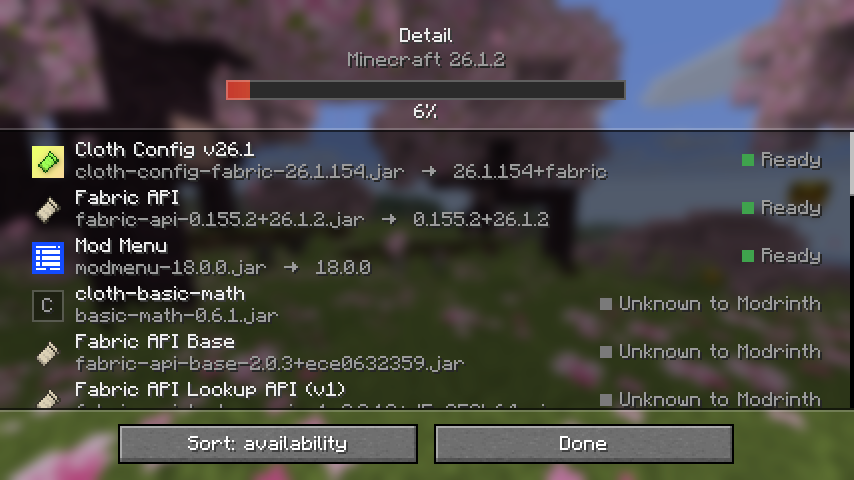
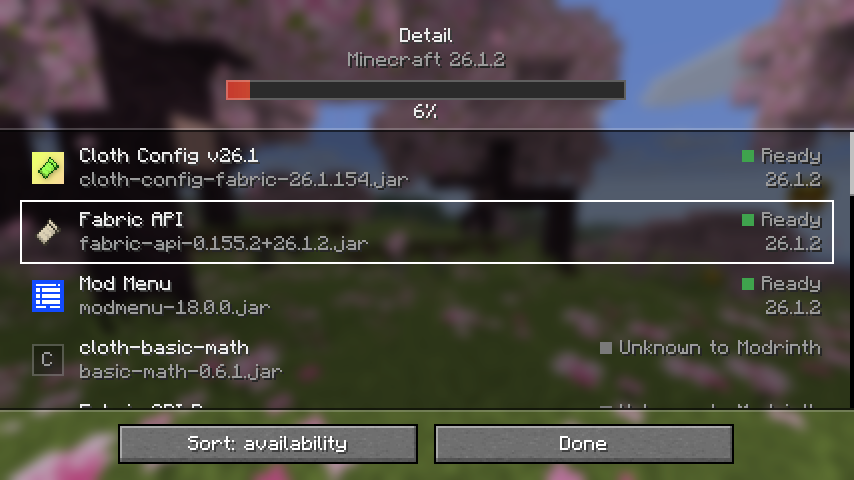
feat: show only the reached minecraft version in the mod list

Changed region(s): [[0.0304, 0.2812, 0.9742, 0.875], [0.7002, 0.8125, 0.9742, 0.875], [0.7002, 0.6875, 0.9742, 0.75]]

diff --git a/src/client/java/de/stefantasie/modsversionsupport/ui/screen/detail/ModSupportRow.java b/src/client/java/de/stefantasie/modsversionsupport/ui/screen/detail/ModSupportRow.java
@@ -1,6 +1,5 @@
 package de.stefantasie.modsversionsupport.ui.screen.detail;
 
-import de.stefantasie.modsversionsupport.ModsVersionSupport;
 import de.stefantasie.modsversionsupport.domain.report.ModSupportView;
 import de.stefantasie.modsversionsupport.ui.icon.ModIconTextures;
 import de.stefantasie.modsversionsupport.ui.theme.Palette;
@@ -9,14 +8,16 @@ import de.stefantasie.modsversionsupport.ui.widget.list.SupportBadge;
 import net.minecraft.client.gui.Font;
 import net.minecraft.client.gui.GuiGraphicsExtractor;
 import net.minecraft.client.gui.components.ObjectSelectionList;
-import java.util.Optional;
 import net.minecraft.network.chat.Component;
 
-/** One mod with its verdict for the target version. */
+/** One mod with its verdict for the target version and the newest Minecraft version it reaches. */
 public final class ModSupportRow extends ObjectSelectionList.Entry<ModSupportRow> {
 
-	private static final int ICON_LEFT = 4;
-	private static final int TEXT_LEFT = 26;
+	private static final int ICON_LEFT = 6;
+	private static final int TEXT_LEFT = 30;
+	private static final int FIRST_LINE = 6;
+	private static final int SECOND_LINE = 18;
+	private static final int EDGE = 6;
 
 	private final ModSupportView view;
 	private final Font font;
@@ -35,30 +36,29 @@ public final class ModSupportRow extends ObjectSelectionList.Entry<ModSupportRow
 
 	@Override
 	public void extractContent(GuiGraphicsExtractor extractor, int mouseX, int mouseY, boolean hovered, float partialTick) {
-		int left = getContentX();
-		int top = getContentY();
+		int left = getX();
+		int top = getY();
+		int right = getX() + getWidth();
 
 		if (hovered) {
-			extractor.outline(left, top, getContentWidth(), getContentHeight(), Palette.SELECTION);
+			extractor.outline(left, top + 1, getWidth(), getHeight() - 2, Palette.SELECTION);
 		}
-		ModIcon.draw(extractor, font, icons.iconFor(view.mod()), view.mod().displayName(), left + ICON_LEFT, top + 3);
-		extractor.text(font, Component.literal(view.mod().displayName()), left + TEXT_LEFT, top + 1, Palette.TEXT);
-		extractor.text(font, secondLine(), left + TEXT_LEFT, top + 12, Palette.TEXT_MUTED);
+
+		ModIcon.draw(extractor, font, icons.iconFor(view.mod()), view.mod().displayName(),
+				left + ICON_LEFT, top + (getHeight() - ModIcon.SIZE) / 2);
+		extractor.text(font, Component.literal(view.mod().displayName()), left + TEXT_LEFT, top + FIRST_LINE, Palette.TEXT);
+		extractor.text(font, Component.literal(view.mod().fileName().orElse("Modrinth")),
+				left + TEXT_LEFT, top + SECOND_LINE, Palette.TEXT_MUTED);
 
 		int badgeWidth = SupportBadge.widthOf(font, view.state());
-		SupportBadge.draw(extractor, font, view.state(), getContentRight() - badgeWidth - 4, top + 6);
+		SupportBadge.draw(extractor, font, view.state(), right - EDGE - badgeWidth, top + FIRST_LINE);
+		drawReachedVersion(extractor, right, top);
 	}
 
-	private Component secondLine() {
-		String source = view.mod().fileName().orElse("Modrinth");
-		Optional<String> found = view.support().versionNumber();
-		if (found.isPresent()) {
-			return Component.literal(source + "  →  " + found.get());
-		}
-		return view.support().newestSupportedGameVersion()
-				.map(version -> Component.literal(source + "  →  ")
-						.append(Component.translatable(ModsVersionSupport.translationKey("detail.up_to"), version)))
-				.map(Component.class::cast)
-				.orElseGet(() -> Component.literal(source));
+	private void drawReachedVersion(GuiGraphicsExtractor extractor, int right, int top) {
+		view.support().newestSupportedGameVersion().ifPresent(version -> {
+			Component label = Component.literal(version);
+			extractor.text(font, label, right - EDGE - font.width(label), top + SECOND_LINE, Palette.TEXT_MUTED);
+		});
 	}
 }

diff --git a/src/client/java/de/stefantasie/modsversionsupport/ui/screen/editor/ModRow.java b/src/client/java/de/stefantasie/modsversionsupport/ui/screen/editor/ModRow.java
@@ -58,17 +58,18 @@ public final class ModRow extends ContainerObjectSelectionList.Entry<ModRow> {
 		int top = getContentY();
 
 		checkbox.setX(left + 2);
-		checkbox.setY(top + 2);
+		checkbox.setY(top + (getContentHeight() - checkbox.getHeight()) / 2);
 		checkbox.extractRenderState(extractor, mouseX, mouseY, partialTick);
 
-		ModIcon.draw(extractor, font, icons.iconFor(view.mod()), view.mod().displayName(), left + ICON_LEFT, top + 3);
-		extractor.text(font, Component.literal(view.mod().displayName()), left + TEXT_LEFT, top + 1, Palette.TEXT);
+		ModIcon.draw(extractor, font, icons.iconFor(view.mod()), view.mod().displayName(),
+				left + ICON_LEFT, top + (getContentHeight() - ModIcon.SIZE) / 2);
+		extractor.text(font, Component.literal(view.mod().displayName()), left + TEXT_LEFT, top + 3, Palette.TEXT);
 		extractor.text(font, Component.literal(view.mod().fileName().orElse("Modrinth")),
-				left + TEXT_LEFT, top + 12, Palette.TEXT_MUTED);
+				left + TEXT_LEFT, top + 14, Palette.TEXT_MUTED);
 
 		if (view.state() != SupportState.PENDING) {
 			int badgeWidth = SupportBadge.widthOf(font, view.state());
-			SupportBadge.draw(extractor, font, view.state(), getContentRight() - badgeWidth - 4, top + 6);
+			SupportBadge.draw(extractor, font, view.state(), getContentRight() - badgeWidth - 4, top + 8);
 		}
 	}
 }

diff --git a/src/client/java/de/stefantasie/modsversionsupport/ui/screen/overview/ProfileRow.java b/src/client/java/de/stefantasie/modsversionsupport/ui/screen/overview/ProfileRow.java
@@ -77,7 +77,7 @@ public final class ProfileRow extends ContainerObjectSelectionList.Entry<Profile
 
 		extractor.fill(left, top, right, getContentBottom(), Palette.withAlpha(Palette.ROW_BACKGROUND, alpha));
 		if (hovered) {
-			extractor.outline(left, top, right - left, getContentHeight(), Palette.SELECTION);
+			extractor.outline(left, top + 1, right - left, getContentHeight() - 2, Palette.SELECTION);
 		}
 		drawLabels(extractor, left + LABEL_LEFT, top, alpha);
 		drawBar(extractor, current, right, top, alpha);

diff --git a/src/client/java/de/stefantasie/modsversionsupport/ui/screen/detail/ModSupportListWidget.java b/src/client/java/de/stefantasie/modsversionsupport/ui/screen/detail/ModSupportListWidget.java
@@ -6,7 +6,7 @@ import net.minecraft.client.gui.components.ObjectSelectionList;
 
 public final class ModSupportListWidget extends ObjectSelectionList<ModSupportRow> {
 
-	private static final int ROW_HEIGHT = 24;
+	private static final int ROW_HEIGHT = 32;
 	private static final int ROW_WIDTH = 420;
 
 	public ModSupportListWidget(Minecraft minecraft, int width, int height, int top) {

diff --git a/src/client/java/de/stefantasie/modsversionsupport/ui/screen/editor/ModListWidget.java b/src/client/java/de/stefantasie/modsversionsupport/ui/screen/editor/ModListWidget.java
@@ -6,7 +6,7 @@ import net.minecraft.client.gui.components.ContainerObjectSelectionList;
 
 public final class ModListWidget extends ContainerObjectSelectionList<ModRow> {
 
-	private static final int ROW_HEIGHT = 24;
+	private static final int ROW_HEIGHT = 28;
 	private static final int ROW_WIDTH = 420;
 
 	public ModListWidget(Minecraft minecraft, int width, int height, int top) {
